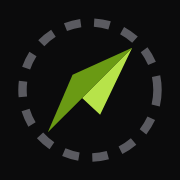
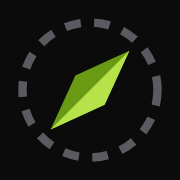
fix: alinha eixo e simetria da agulha da bússola e aplica os dois tons de verde na página

diff --git a/index.html b/index.html
@@ -14,15 +14,15 @@
   <meta name="twitter:card" content="summary_large_image" />
   <meta name="twitter:title" content="Rumos — Roadmap e plano de estudos em tecnologia" />
   <meta name="twitter:description" content="Combine carreiras, fundamentos e linguagens em uma trilha do básico ao avançado, com projetos práticos e agenda semanal. Sem cadastro." />
-  <meta property="og:image" content="https://eduardonobilioni.github.io/rumos-guia-de-estudos/assets/brand/og.png?v=2" />
+  <meta property="og:image" content="https://eduardonobilioni.github.io/rumos-guia-de-estudos/assets/brand/og.png?v=3" />
   <meta property="og:image:type" content="image/png" />
   <meta property="og:image:width" content="1200" />
   <meta property="og:image:height" content="630" />
   <meta property="og:image:alt" content="Rumos — Planeje seus estudos em tecnologia com clareza." />
-  <meta name="twitter:image" content="https://eduardonobilioni.github.io/rumos-guia-de-estudos/assets/brand/og.png?v=2" />
-  <link rel="icon" href="assets/brand/favicon.svg?v=2" type="image/svg+xml" />
-  <link rel="icon" href="assets/brand/favicon-32.png?v=2" sizes="32x32" type="image/png" />
-  <link rel="apple-touch-icon" href="assets/brand/apple-touch-icon.png?v=2" />
+  <meta name="twitter:image" content="https://eduardonobilioni.github.io/rumos-guia-de-estudos/assets/brand/og.png?v=3" />
+  <link rel="icon" href="assets/brand/favicon.svg?v=3" type="image/svg+xml" />
+  <link rel="icon" href="assets/brand/favicon-32.png?v=3" sizes="32x32" type="image/png" />
+  <link rel="apple-touch-icon" href="assets/brand/apple-touch-icon.png?v=3" />
   <link rel="manifest" href="manifest.webmanifest" />
   <meta name="theme-color" content="#0B0B0C" />
   <link rel="preload" href="assets/fonts/plus-jakarta-sans-400.woff2" as="font" type="font/woff2" crossorigin />

diff --git a/js/files.js b/js/files.js
@@ -279,28 +279,27 @@ const FONT_UI = '"Plus Jakarta Sans", system-ui, -apple-system, sans-serif';
 
 function brandMarkPdf() {
   return [
-    '0.718 0.890 0.290 rg',
-    '48 784 m 68 804 l 61 789 l h f',
     '0.416 0.604 0.078 rg',
-    '48 784 m 54 798 l 68 804 l h f',
+    '48 784 m 54.25 797.75 l 68 804 l 61.75 790.25 l h f',
+    '0.718 0.890 0.290 rg',
+    '48 784 m 68 804 l 61.75 790.25 l h f',
   ].join('\n');
 }
 
 function drawBrandMark(ctx, x, y, size) {
-  ctx.fillStyle = '#B7E34A';
-  ctx.beginPath();
-  ctx.moveTo(x + size * 0.16, y + size * 0.84);
-  ctx.lineTo(x + size * 0.84, y + size * 0.16);
-  ctx.lineTo(x + size * 0.58, y + size * 0.68);
-  ctx.lineTo(x + size * 0.44, y + size * 0.54);
-  ctx.closePath();
-  ctx.fill();
   ctx.fillStyle = '#6A9A14';
   ctx.beginPath();
-  ctx.moveTo(x + size * 0.16, y + size * 0.84);
-  ctx.lineTo(x + size * 0.36, y + size * 0.40);
-  ctx.lineTo(x + size * 0.84, y + size * 0.16);
-  ctx.lineTo(x + size * 0.44, y + size * 0.54);
+  ctx.moveTo(x + size * 0.25, y + size * 0.75);
+  ctx.lineTo(x + size * 0.40625, y + size * 0.40625);
+  ctx.lineTo(x + size * 0.75, y + size * 0.25);
+  ctx.lineTo(x + size * 0.59375, y + size * 0.59375);
+  ctx.closePath();
+  ctx.fill();
+  ctx.fillStyle = '#B7E34A';
+  ctx.beginPath();
+  ctx.moveTo(x + size * 0.25, y + size * 0.75);
+  ctx.lineTo(x + size * 0.75, y + size * 0.25);
+  ctx.lineTo(x + size * 0.59375, y + size * 0.59375);
   ctx.closePath();
   ctx.fill();
 }

diff --git a/js/ui/dom.js b/js/ui/dom.js
@@ -119,8 +119,8 @@ export function brandMark(animate = false) {
   return `<svg class="brand-mark" viewBox="0 0 32 32" fill="none" aria-hidden="true">
     <circle cx="16" cy="16" r="13.5" class="logo-ring" stroke-width="1.5" stroke-dasharray="3 2.5"></circle>
     <g class="${animate ? 'compass-needle' : ''}">
-      <path d="M7.5 24.5L24.5 7.5L18 21L14.5 17.5L7.5 24.5Z" class="logo-primary"></path>
-      <path d="M7.5 24.5L12.5 13L24.5 7.5L14.5 17.5L7.5 24.5Z" class="logo-accent"></path>
+      <path d="M8 24L13 13L24 8L19 19Z" class="logo-accent"></path>
+      <path d="M8 24L24 8L19 19Z" class="logo-primary"></path>
     </g>
   </svg>`;
 }

diff --git a/css/base.css b/css/base.css
@@ -95,8 +95,8 @@ a { color: var(--color-accent-text); }
 .home-title .brand-mark { width: 1.45em; height: 1.45em; }
 .topnav .brand-lockup { font: 800 22px/26px var(--font-sans); gap: 10px; }
 .logo-ring { stroke: var(--color-text-3); }
-.logo-primary { fill: var(--color-accent-graphic); }
-.logo-accent { fill: var(--color-text-2); }
+.logo-primary { fill: #b7e34a; }
+.logo-accent { fill: #6a9a14; }
 
 .stack { display: flex; flex-direction: column; gap: var(--space-3); }
 .row { display: flex; align-items: center; gap: var(--space-2); flex-wrap: wrap; }

diff --git a/css/motion.css b/css/motion.css
@@ -44,7 +44,7 @@ dialog::backdrop,
 
 .skeleton { animation: blink 1.2s var(--ease-in-out) infinite alternate; }
 
-.compass-needle { transform-origin: 50% 50%; animation: needle-settle 900ms var(--ease-out) both; }
+.compass-needle { transform-box: view-box; transform-origin: 16px 16px; animation: needle-settle 900ms var(--ease-out) both; }
 .reveal:not(.is-in) .compass-needle { animation: none; }
 .brand-lockup:hover .compass-needle { animation: needle-wobble 480ms var(--ease-out); }
 .compass-path path {

diff --git a/sw.js b/sw.js
@@ -1,4 +1,4 @@
-const CACHE = 'rumos-cache-v10';
+const CACHE = 'rumos-cache-v11';
 const PRECACHE = [
   './',
   './index.html',
